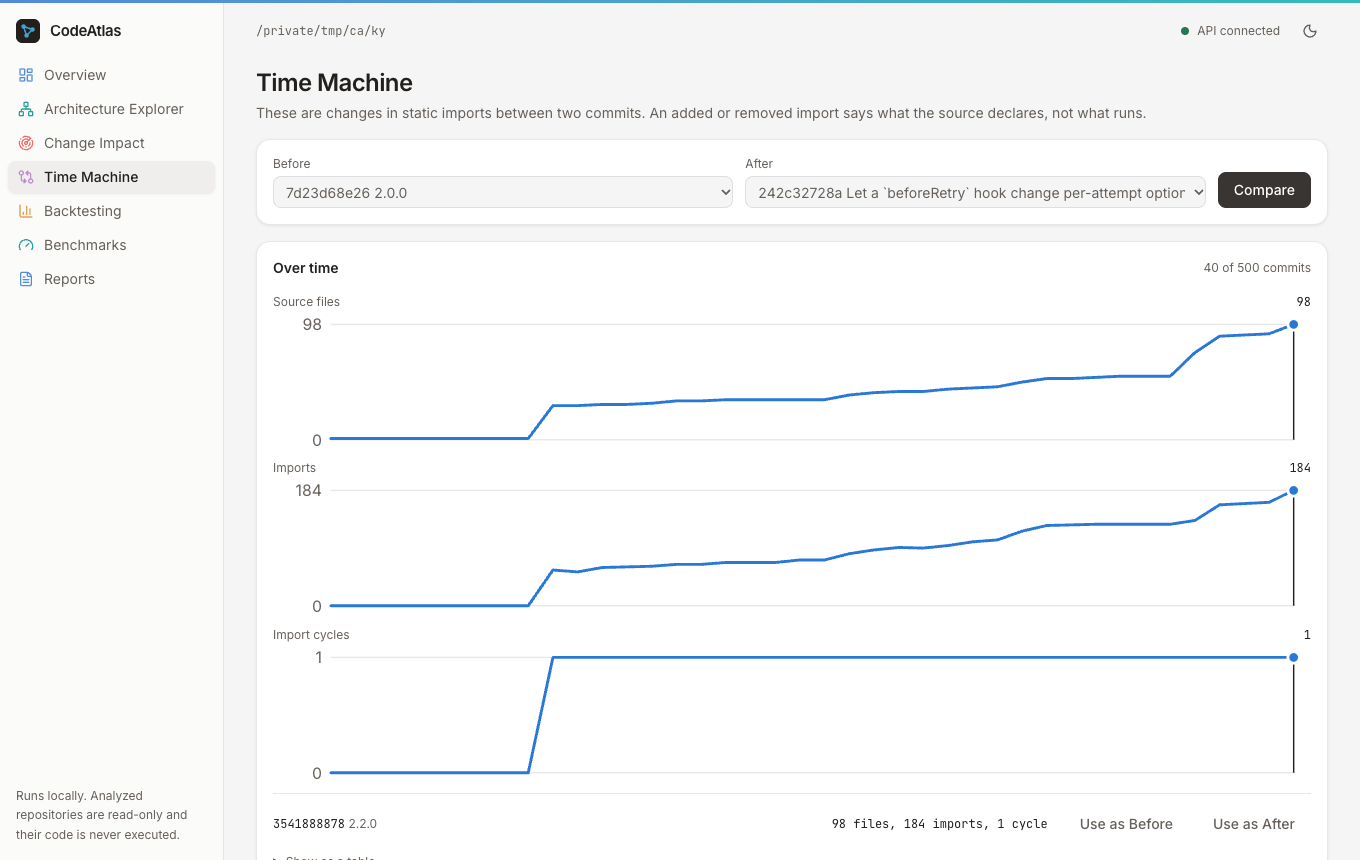
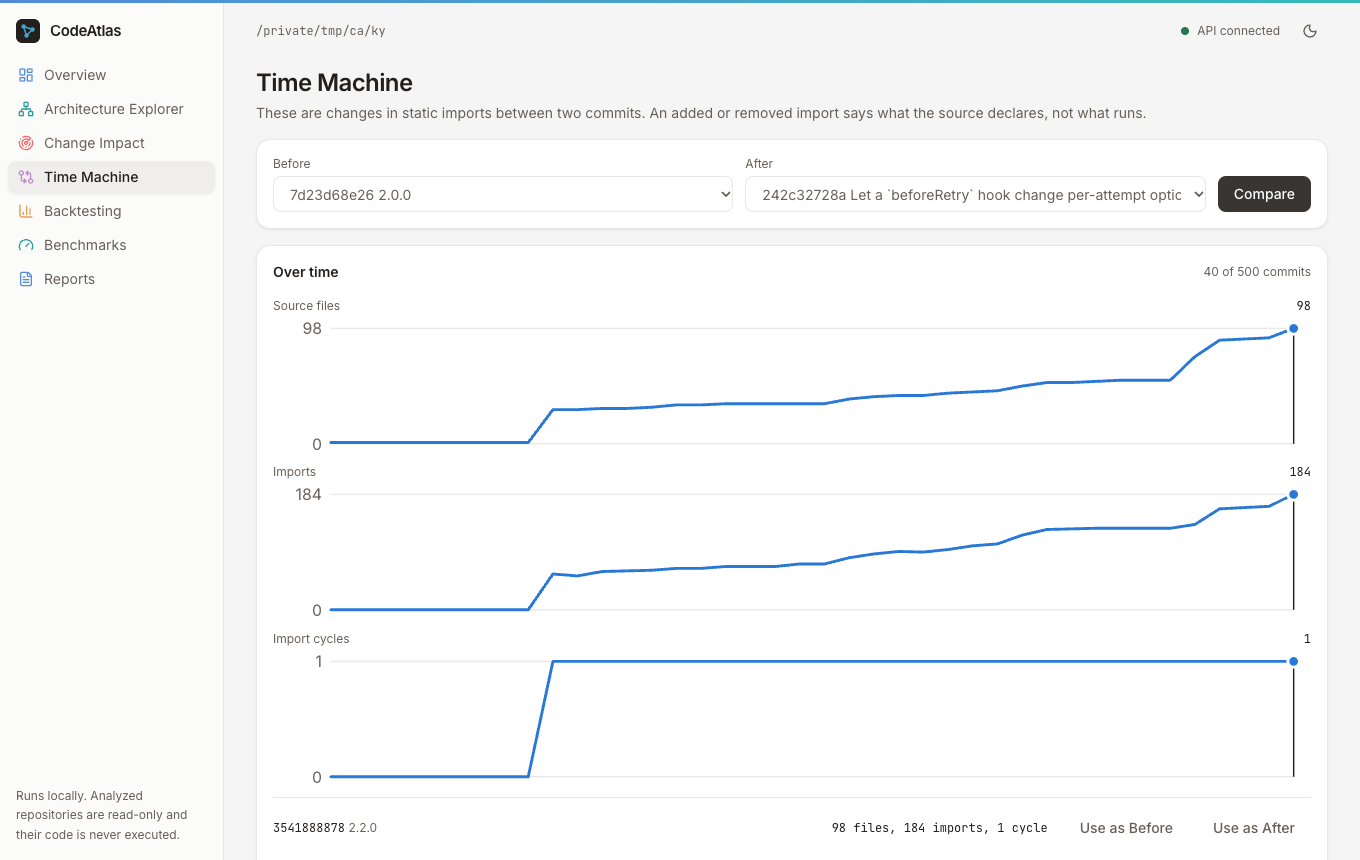
Add recent repositories, a compact sidebar and a README diagram
- List repositories with saved results on the Overview
- Collapse the sidebar to icons and tighten spacing in narrow windows
- Add an architecture diagram to the README
- Retake the tour and Time Machine images from a short path

diff --git a/apps/web/src/app/App.tsx b/apps/web/src/app/App.tsx
@@ -54,10 +54,10 @@ export function App() {
         Skip to content
       </a>
 
-      <aside className="flex w-56 shrink-0 flex-col border-r bg-sidebar">
+      <aside className="flex w-14 shrink-0 flex-col border-r bg-sidebar lg:w-56">
         <div className="flex h-14 items-center gap-2.5 px-4">
           <img src="/favicon.svg" alt="" className="size-6" />
-          <span className="text-[15px] font-semibold tracking-tight">CodeAtlas</span>
+          <span className="sr-only text-[15px] font-semibold tracking-tight lg:not-sr-only">CodeAtlas</span>
         </div>
         <nav aria-label="Primary" className="flex-1 space-y-0.5 px-2">
           {ROUTES.map((item) => {
@@ -69,25 +69,25 @@ export function App() {
                 href={`#/${item.id}`}
                 aria-current={active ? "page" : undefined}
                 className={cn(
-                  "flex items-center gap-2.5 rounded-md px-2.5 py-1.5 text-sm transition-colors",
+                  "flex items-center justify-center gap-2.5 rounded-md px-2.5 py-1.5 text-sm transition-colors lg:justify-start",
                   active
                     ? "bg-muted font-medium text-foreground shadow-card"
                     : "text-muted-foreground hover:bg-muted hover:text-foreground",
                 )}
               >
                 <Icon aria-hidden className={cn("size-4 shrink-0", item.tint)} />
-                <span className="flex-1">{item.label}</span>
+                <span className="sr-only flex-1 lg:not-sr-only">{item.label}</span>
               </a>
             );
           })}
         </nav>
-        <p className="p-4 text-xs leading-relaxed text-muted-foreground">
+        <p className="hidden p-4 text-xs leading-relaxed text-muted-foreground lg:block">
           Runs locally. Analyzed repositories are read-only and their code is never executed.
         </p>
       </aside>
 
       <div className="flex min-w-0 flex-1 flex-col">
-        <header className="mx-auto flex h-14 w-full max-w-[calc(72rem+4rem)] shrink-0 items-center justify-between gap-4 px-8">
+        <header className="mx-auto flex h-14 w-full max-w-[calc(72rem+4rem)] shrink-0 items-center justify-between gap-4 px-4 md:px-8">
           <span className="min-w-0 truncate font-mono text-xs text-muted-foreground">
             {selection.repository?.path ?? "No repository open"}
           </span>
@@ -105,14 +105,14 @@ export function App() {
         </header>
         <ApiOfflineBanner />
         {selection.repository?.path.endsWith("/demo/product") && (
-          <div className="px-8">
+          <div className="px-4 md:px-8">
             <p role="note" className="mx-auto mb-2 max-w-6xl text-xs text-muted-foreground">
               Generated sample repository. Its history was built to show how the tool works, so its results, including
               backtests, say nothing about real projects.
             </p>
           </div>
         )}
-        <main id="main" tabIndex={-1} className="flex-1 overflow-y-auto px-8 pt-2 pb-12 outline-none">
+        <main id="main" tabIndex={-1} className="flex-1 overflow-y-auto px-4 pt-2 pb-12 outline-none md:px-8">
           {route.id === "explorer" ? (
             <Suspense fallback={<Skeleton aria-label="Loading explorer" className="h-[520px] w-full" />}>
               <ExplorerPage repository={selection.repository} theme={theme} />

diff --git a/apps/web/src/features/overview/OverviewPage.test.tsx b/apps/web/src/features/overview/OverviewPage.test.tsx
@@ -1,4 +1,4 @@
-import { screen } from "@testing-library/react";
+import { screen, waitFor, within } from "@testing-library/react";
 import userEvent from "@testing-library/user-event";
 import { describe, expect, it, vi } from "vitest";
 
@@ -71,6 +71,38 @@ function stubAnalyzed(result: OverviewResponse = overview) {
     },
   });
 }
+
+describe("recent repositories", () => {
+  it("opens one with saved results, newest first, and leaves out the rest", async () => {
+    localStorage.setItem("codeatlas-repository", "1");
+    const older = { id: 2, path: "/work/older", analyzed_at: 10 };
+    const newer = { id: 3, path: "/work/newer", analyzed_at: 20 };
+    const never = { id: 4, path: "/work/never", analyzed_at: null };
+    const fetchMock = stubRoutes({
+      "/health": { body: healthyBody },
+      "/repositories": { body: [repository, older, newer, never] },
+      "/repositories/1/overview": { body: overview },
+      "/repositories/3/overview": { body: overview },
+      "/repositories/1/commits": { body: { commits: [], next_cursor: null } },
+      "/repositories/3/commits": { body: { commits: [], next_cursor: null } },
+      "/repositories/1/jobs": { body: [] },
+      "/repositories/3/jobs": { body: [] },
+    });
+    renderWithQuery(<Page />);
+
+    const list = await screen.findByRole("list", { name: "Recent repositories" });
+    const names = within(list).getAllByRole("button").map((button) => button.textContent);
+    expect(names).toEqual(["newer/work/newer", "older/work/older"]);
+
+    await userEvent.click(within(list).getByRole("button", { name: /newer/ }));
+    await waitFor(() =>
+      expect(fetchMock.mock.calls.some(([url]) => url.endsWith("/repositories/3/overview"))).toBe(true),
+    );
+    expect(screen.getByLabelText(/Absolute path/)).toHaveValue("/work/newer");
+    expect(fetchMock.mock.calls.some(([url]) => url.includes("/analyze"))).toBe(false);
+    localStorage.removeItem("codeatlas-repository");
+  });
+});
 
 describe("closing a repository", () => {
   it("returns to the empty start, stays there after a reload, and can open again", async () => {

diff --git a/apps/web/src/features/overview/RecentRepositories.tsx b/apps/web/src/features/overview/RecentRepositories.tsx
@@ -1,0 +1,42 @@
+import { useRepositories } from "@/api/queries";
+import type { RepositoryEntry } from "@/types/generated/RepositoryEntry";
+
+const LISTED = 6;
+
+const folderName = (path: string) => path.slice(path.lastIndexOf("/") + 1);
+
+interface Props {
+  current: RepositoryEntry | undefined;
+  onOpen: (id: number) => void;
+}
+
+/** Repositories with saved results, newest first, which open without analyzing again. */
+export function RecentRepositories({ current, onOpen }: Props) {
+  const { data } = useRepositories();
+  const recent = (data ?? [])
+    .filter((entry) => entry.analyzed_at !== null && entry.id !== current?.id)
+    .sort((a, b) => (b.analyzed_at ?? 0) - (a.analyzed_at ?? 0))
+    .slice(0, LISTED);
+  if (recent.length === 0) return null;
+
+  return (
+    <div className="mt-4">
+      <h3 className="text-xs text-muted-foreground">Recent repositories</h3>
+      <ul aria-label="Recent repositories" className="mt-1.5 grid gap-1 sm:grid-cols-2">
+        {recent.map((entry) => (
+          <li key={entry.id} className="min-w-0">
+            <button
+              type="button"
+              title={entry.path}
+              onClick={() => onOpen(entry.id)}
+              className="block w-full min-w-0 rounded-md border px-3 py-1.5 text-left hover:bg-muted"
+            >
+              <span className="block truncate text-sm font-medium">{folderName(entry.path)}</span>
+              <span className="block truncate font-mono text-xs text-muted-foreground">{entry.path}</span>
+            </button>
+          </li>
+        ))}
+      </ul>
+    </div>
+  );
+}

diff --git a/apps/web/src/features/overview/OverviewPage.tsx b/apps/web/src/features/overview/OverviewPage.tsx
@@ -12,6 +12,7 @@ import type { HealthResponse } from "@/types/generated/HealthResponse";
 
 import { OpenRepositoryForm } from "./OpenRepositoryForm";
 import { RecentJobs } from "./RecentJobs";
+import { RecentRepositories } from "./RecentRepositories";
 import { RepositoryOverview } from "./RepositoryOverview";
 
 function Fact({ label, value }: { label: string; value: string }) {
@@ -103,6 +104,13 @@ function RepositorySection({ repository, select, close }: SelectedRepository) {
         </CardHeader>
         <CardContent>
           <OpenRepositoryForm key={closings} initialPath={repository?.path ?? ""} onAnalyzed={select} />
+          <RecentRepositories
+            current={repository}
+            onOpen={(id) => {
+              select(id);
+              setClosings((count) => count + 1);
+            }}
+          />
           {notAnalyzed && <p className="mt-3 text-sm text-muted-foreground">This repository has not been analyzed yet.</p>}
           {overview.error && !notAnalyzed && (
             <p role="alert" className="mt-3 text-sm text-destructive">

diff --git a/apps/web/src/features/time-machine/TimeMachinePage.tsx b/apps/web/src/features/time-machine/TimeMachinePage.tsx
@@ -17,7 +17,7 @@ import { buildOverlay } from "./overlay";
 import { TimelineCharts } from "./TimelineCharts";
 
 const COMMIT_CHOICES = 200;
-const FIELD = "h-9 w-full rounded-md border bg-card px-2 text-sm";
+const FIELD = "h-9 w-full rounded-md border bg-card px-3 text-sm";
 const LIMITATION =
   "These are changes in static imports between two commits. An added or removed import says what the source declares, not what runs.";
 

diff --git a/apps/web/src/app/ApiStatus.tsx b/apps/web/src/app/ApiStatus.tsx
@@ -13,7 +13,7 @@ export function ApiStatus() {
         : ["API degraded", "bg-warning"];
 
   return (
-    <span role="status" className="flex items-center gap-2 text-xs text-muted-foreground">
+    <span role="status" className="flex items-center gap-2 text-xs whitespace-nowrap text-muted-foreground">
       <span aria-hidden className={cn("size-2 rounded-full", tone)} />
       {label}
     </span>

diff --git a/README.md b/README.md
@@ -34,6 +34,23 @@ It beat the baseline on all six, though on one the margin is within the error ba
 |---|---|
 | ![Time Machine comparing two commits](docs/images/time-machine.png) | ![Backtesting results against baselines](docs/images/backtesting.png) |
 
+## How it works
+
+```mermaid
+flowchart LR
+    repo[("Local Git repository<br/>read-only")] --> git["atlas-git<br/>commits, diffs, renames"]
+    repo --> parser["atlas-parser<br/>TS and TSX imports"]
+    parser --> graph["atlas-graph<br/>cycles, reachability"]
+    git --> analysis["atlas-analysis<br/>impact, comparison, backtests"]
+    graph --> analysis
+    analysis <--> storage[("SQLite<br/>outside the repository")]
+    analysis --> cli["codeatlas CLI"]
+    analysis --> api["Local API<br/>127.0.0.1 only"]
+    api --> web["React dashboard"]
+```
+
+The Rust engine works without the dashboard, and the dashboard contains no analysis logic. [docs/architecture.md](docs/architecture.md) has the details.
+
 Large repositories open on a directory map, shown here on `nestjs/nest`:
 
 ![Directory map of nestjs/nest, with arrows for imports between directories](docs/images/directory-map.png)

diff --git a/docs/limitations.md b/docs/limitations.md
@@ -5,6 +5,7 @@
 - Rankings were measured on six held-out repositories, which is a small sample. See [evaluation.md](evaluation.md).
 - Benchmarks come from one machine and a few repositories. See [benchmarks.md](benchmarks.md).
 - `codeatlas serve` serves the dashboard from `apps/web/dist`, so a binary alone serves only the API, and it must run from the repository root or be given `--web-dir`.
+- The dashboard is designed for desktop windows. It was checked at 768px wide and above, and phones are not supported.
 - Only macOS arm64 has been tested locally, and Linux runs in CI. Windows is untested.
 - Stopping takes effect at the next step, so one huge diff runs to its end first ([ADR 16](decisions/0016-stop-work-through-the-database-session.md)). Requests stop after `server.query_timeout_seconds` (default 120). A browser that disconnects does not stop its request sooner.
 - Jobs live in memory, so job ids and the Recent jobs list do not survive a restart. Results do.
